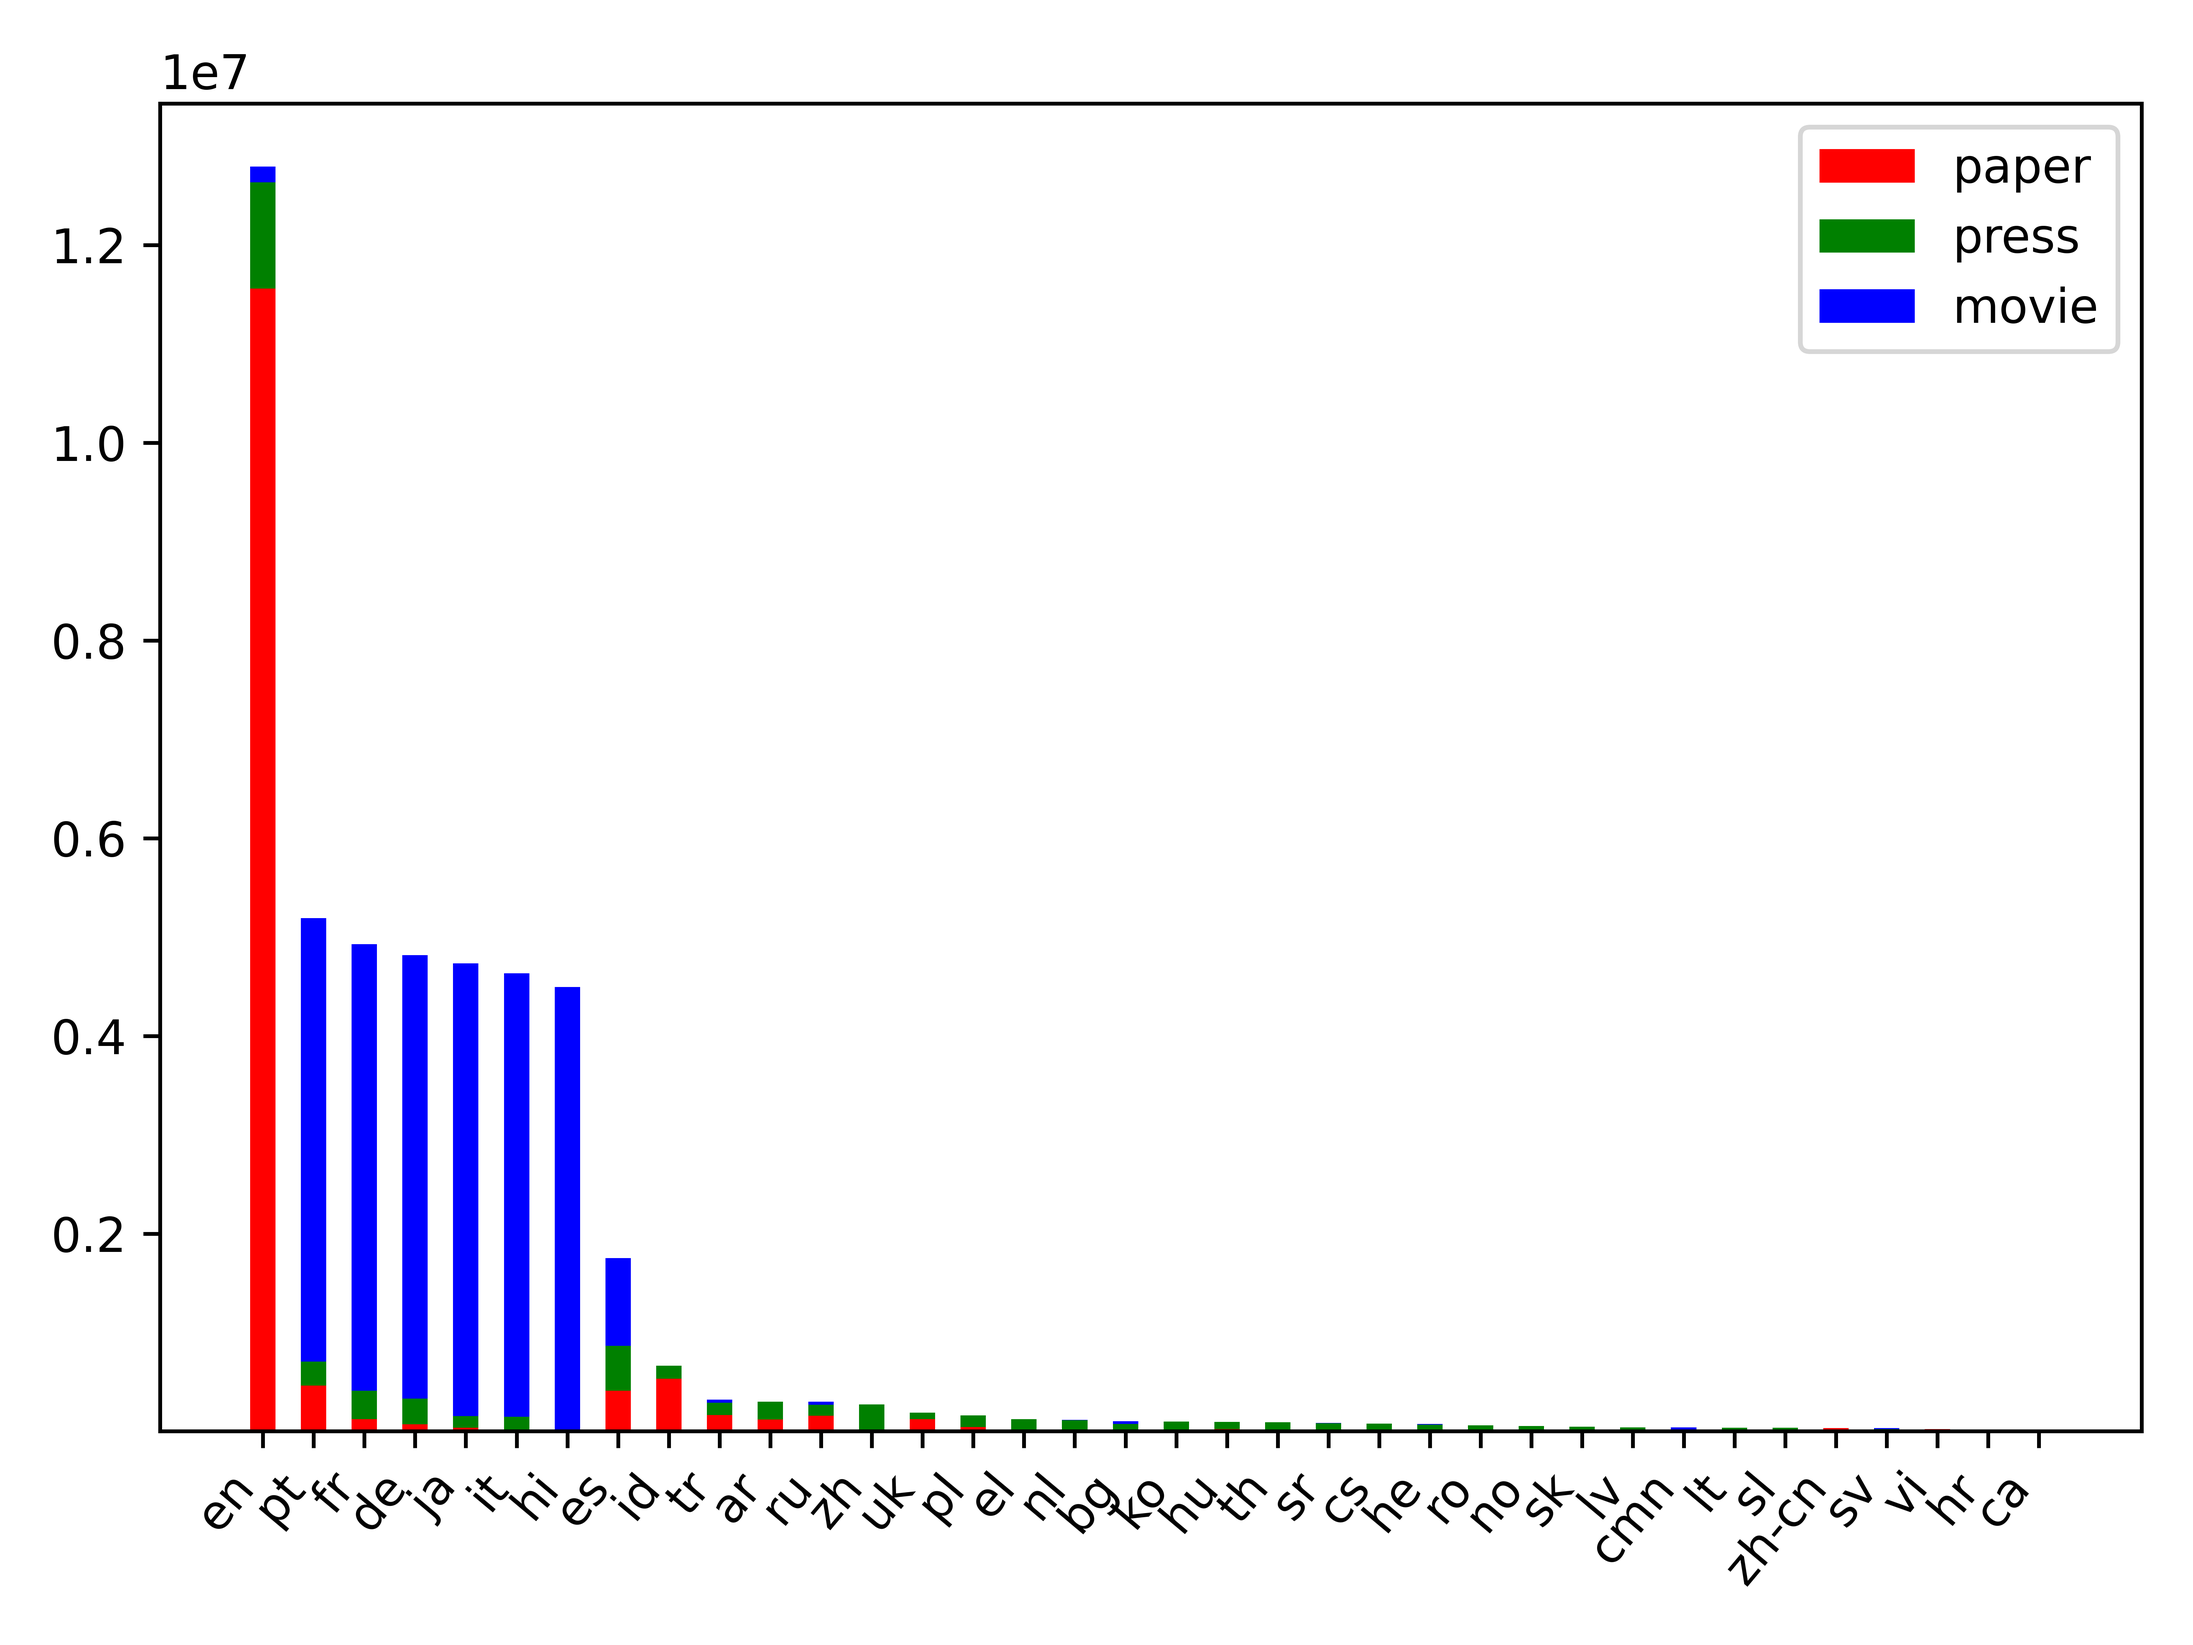
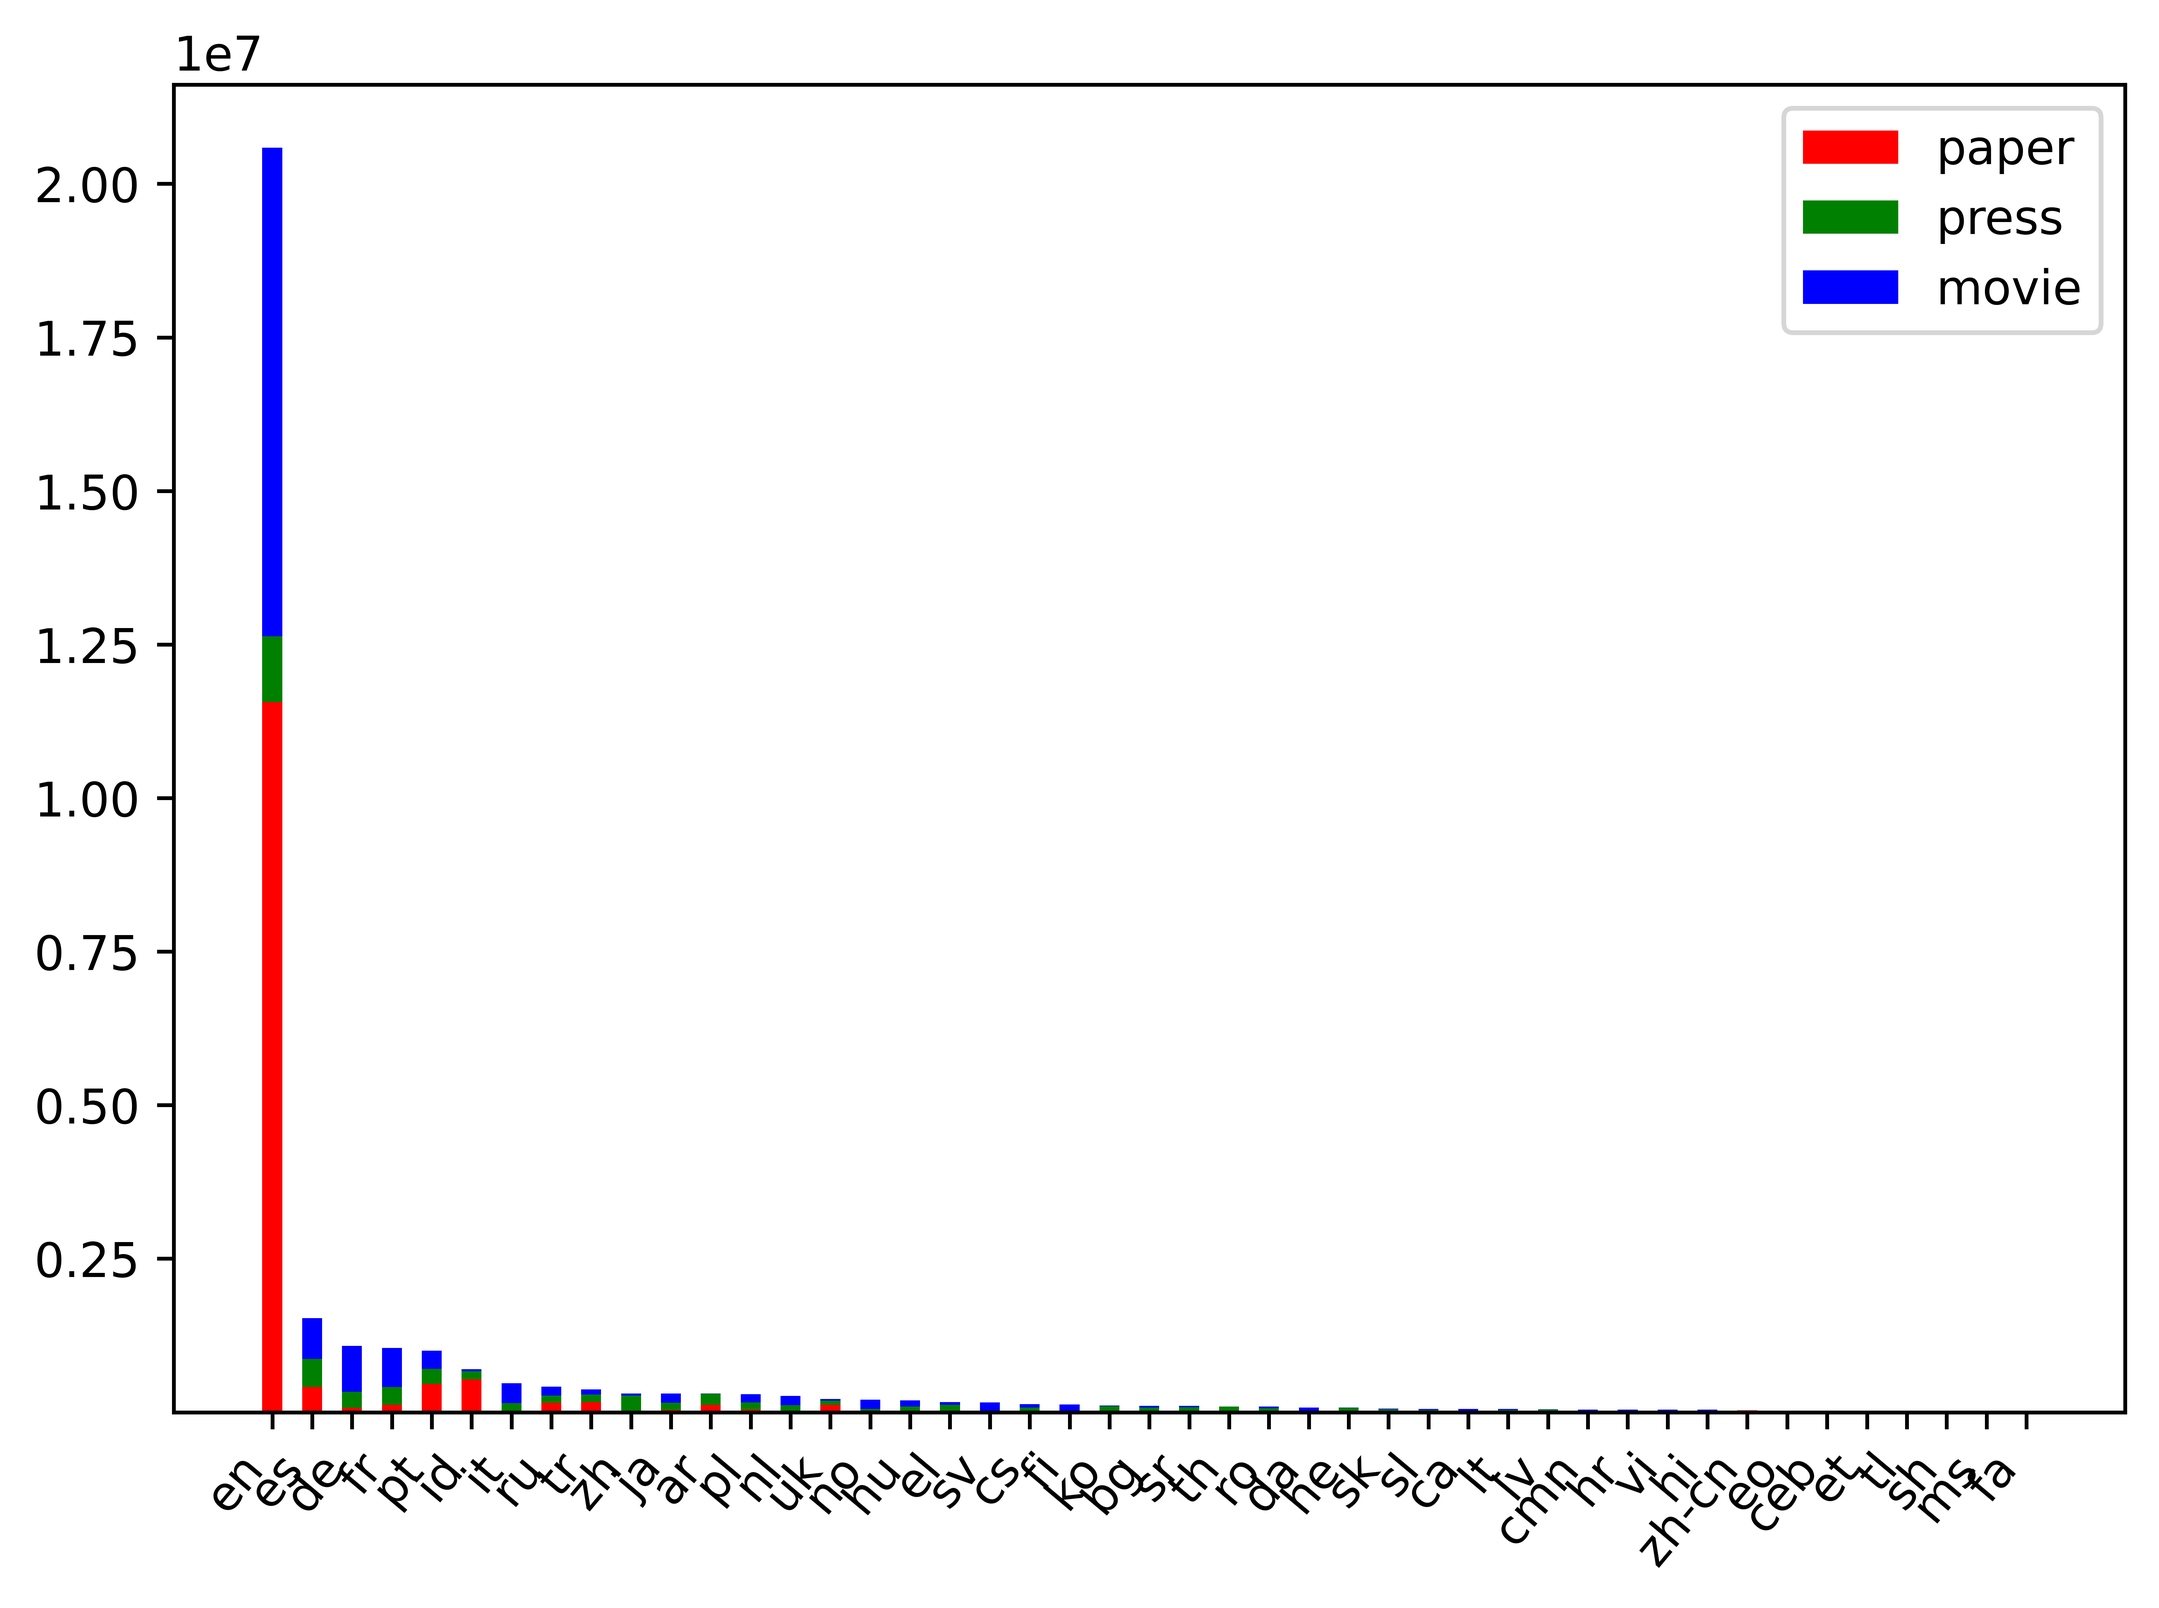
waiting for a more performant PC to run it

Changed region(s): [[0.0, 0.0311, 0.9332, 0.9644], [0.8088, 0.0622, 0.9954, 0.8711]]

diff --git a/BACKUPs/MovieFinder/movieMain.py b/BACKUPs/MovieFinder/movieMain.py
@@ -1,0 +1,119 @@
+import os
+import json
+import glob
+import pandas as pd
+
+import gzip
+import shutil
+import urllib.request  
+
+def createFolder(folder):
+    "create a folder"
+    if not os.path.exists(folder): 
+        os.makedirs(folder) 
+
+
+def getDataset():
+    "get the wanted dataset from url and extract it"
+    urllib.request.urlretrieve("https://datasets.imdbws.com/title.akas.tsv.gz", "data/title.akas.tsv.gz")
+    with gzip.open("data/title.akas.tsv.gz", 'rb') as f_in:
+        with open("data/title.akas.tsv", 'wb') as f_out:
+            shutil.copyfileobj(f_in, f_out)
+
+
+def getDictMovies():
+    "reads the imdb file and extract id, language and title for each movie"
+    "saves titles in X json files, each containing up to 200.000 titles"
+    "takes care of duplicates by looking at titles IDs and exact match"
+
+    data = pd.read_csv("data/title.akas.tsv",sep="\t")
+    dict_movies = {}
+    errors = []
+
+    counter = 0
+    file_counter = 0
+
+    previous_title = []
+    previous_titleId = data["titleId"][0]
+
+    for i,titleId in enumerate(data["titleId"]):
+
+        if titleId != previous_titleId:
+            previous_title = []
+
+        title = data["title"][i]
+
+        if str(title).find("\ntt") != -1:
+            errors.append(str(title))
+
+        else:
+
+            if titleId+str(i) not in dict_movies and title not in previous_title:
+
+                dict_movies[titleId+str(i)] = {"title":title,"language":data["language"][i],"origin":"movie"}
+                previous_title.append(title)
+
+            counter += 1
+
+            if counter == 200000:
+
+                with open(f'data/split/movies_{file_counter}.json', 'w',encoding="utf'8") as f:
+                    json.dump(dict_movies, f, indent=4, ensure_ascii=False)
+                    
+                file_counter += 1
+                counter = 0
+                dict_movies = {}
+
+            previous_titleId = titleId
+        
+    with open("data/errors.tsv","w",encoding="utf-8") as f:
+        f.write("\n".join(errors))
+    
+
+def getLanguagesNumber(dict_movies):
+    "allows us to count the number of languages for one file"
+    languages = set()
+    counter_null = 0
+    for key,value in dict_movies.items():
+        if value["language"] == "\\N":
+            counter_null += 1
+        else:
+            languages.add(value["language"].lower())
+    return languages, counter_null
+
+
+def getMetadata():
+    "check all json files one by one to collect metadatas"
+    total_lang = set()
+    total_null = 0
+    size = 0
+    for path in glob.glob("data/split/*.json"):
+        with open(path,'r',encoding="utf-8") as f:
+            dict_movies = json.load(f)
+        lang, nb_null = getLanguagesNumber(dict_movies)
+        total_lang.update(lang)
+        total_null += nb_null
+        size += len(dict_movies.keys())
+    return len(total_lang), total_null, size
+
+
+if __name__ == "__main__":
+
+    createFolder("data")
+    createFolder("data/split")
+
+    if not os.path.exists("data/title.akas.tsv"):
+        print("downloading the dataset...")
+        getDataset()
+
+    if len(os.listdir("data/split")) == 0:
+        print("getting titles... (this might takes a while !)")
+        getDictMovies()
+        print("titles saved in data/split !")
+
+    print("getting some basic metadata...")
+    nb_lang, nb_null, size = getMetadata()
+    print(f"number of titles : {size}")
+    print(f"number of languages : {nb_lang}")
+    print(f"number of unreferenced language values : {nb_null}")
+    print("done !")

diff --git a/collect/MovieFinder/movieMain.py b/collect/MovieFinder/movieMain.py
@@ -4,6 +4,7 @@ import glob
 import pandas as pd
 from tqdm import tqdm
 from io import StringIO
+from ftlangdetect import detect # pip install fasttext-langdetect
 
 import gzip
 import shutil
@@ -42,6 +43,16 @@ def isEpisode(episodes,title):
     return False
 
 
+def getLanguage(invalid_languages,title,language):
+    "get the most probable language for a given title"
+    try:
+        guess = detect(text=str(title).replace("\n",""), low_memory=False)
+        return guess["lang"]
+    except:
+        invalid_languages.append(language)
+        return "\\N"
+
+
 def getDictMovies(data,file_counter=0):
     "reads the imdb file and extract id, language and title for each movie"
     "saves titles in X json files, each containing up to 200.000 titles"
@@ -54,6 +65,7 @@ def getDictMovies(data,file_counter=0):
     dict_movies = {}
     invalid_list = [headers]
     episode_list = []
+    invalid_languages = []
     bannedID = ""
     counter = 0
 
@@ -72,6 +84,9 @@ def getDictMovies(data,file_counter=0):
 
                 language = data["language"][i]
                 dict_movies[f"{titleId}_{counter}"] = {"title":title,"language":language,"origin":"movie"}
+
+                if language == "\\N":
+                    dict_movies[f"{titleId}_{counter}"]["language"] = getLanguage(invalid_languages,title,language)
 
                 counter += 1
 
@@ -94,6 +109,14 @@ def getDictMovies(data,file_counter=0):
 
     with open("data/episodes.json","w",encoding="utf-8") as f:
         json.dump(episode_list, f, indent=4, ensure_ascii=False)
+
+    if os.path.isfile("data/invalid_languages.json"):
+        with open("data/invalid_languages.json","r",encoding="utf-8") as f:
+            old_invalid_languages = json.load(f)
+        invalid_languages = old_invalid_languages + invalid_languages
+
+    with open("data/invalid_languages.json","w",encoding="utf-8") as f:
+        json.dump(list(set(invalid_languages)), f, indent=4, ensure_ascii=False)
 
     return file_counter+1, "\n".join(invalid_list)
     
@@ -157,3 +180,4 @@ if __name__ == "__main__":
     print(f"number of unreferenced language values : {nb_null}")
     print(f"number of dropped titles corresponding to episodes numbers : {nb_episode}")
     print("done !")
+

diff --git a/filter/src/metadata.py b/filter/src/metadata.py
@@ -75,6 +75,7 @@ def getBasicMetadatas():
 def getBasicMetadatasHistogram(logscale=True):
     "take our dict of metadata as input and create a histogram to visualize it"
 
+    createFolder("logs/images")
     dict_metadata = openJson("logs/dict_metadata.json")
 
     order_lang = []
@@ -188,8 +189,10 @@ def getVizualisation(vectorizer,genres,number,clusters=False,clusteType="Kmeans"
                 # we do the vizualisation
                 ax.scatter(X_reduced[:, 0], X_reduced[:, 1], c=colors, alpha=0.2, s=10)
                 handles = [plt.Line2D([0], [0], marker='o', color='w', label=label, markerfacecolor=color, markersize=10) for color, label in zip(colors_labels,origins_labels)]
-                if clusters == False:
-                    ax.legend(handles=handles, title='Categories')
+                legend_title = "Categories"
+                if clusters == True:
+                    legend_title = "Clusters"
+                ax.legend(handles=handles, title=legend_title)
                 ax.set_title(f'{lang}')
                 ax.grid(True)
 
@@ -204,12 +207,12 @@ def dataVisualisationLoop(genres,number):
     "proceed getDataVizualisation with different parameters"
     
     timeWindowsName = f"{number}_{('_').join(genres)}"
-    runtimePath = "logs/images/getDataVizualisation/runtimes.json"
+    runtimePath = "logs/images/runtimes.json"
 
     if not os.path.isfile(runtimePath):
         writeJson(runtimePath,[])
 
-    ngrams = [(1,1),(2,2),(3,3),(1,2),(2,3)]
+    ngrams = [(1,1),(2,2)]
     analyzers = ["char","word","char_wb"]
 
     stop_words = None

diff --git a/filter/src/clustering.py b/filter/src/clustering.py
@@ -17,22 +17,25 @@ def KMeansClustering(vectorizer,genres,number,n_clusters=10):
     dict_languages = openJson("logs/dict_languages.json")
     sorted_dict_languages = [i[0] for i in sorted(dict_languages.items(), key=lambda x:x[1],reverse=True)]
 
-    for lang in tqdm(sorted_dict_languages[-number:]):
+    for lang in tqdm(sorted_dict_languages[0:number]):
 
         createFolder(f"data/clusters/{lang}")
         removeFolder(f"data/clusters/{lang}/{('_').join(genres)}")
         createFolder(f"data/clusters/{lang}/{('_').join(genres)}")
 
         titles, origins = getTitles(lang,genres)
-        X = getVectors(vectorizer,titles,lang,genres)
-        
-        kmean = KMeans(n_clusters=n_clusters,n_init=10)
-        kmean.fit(X)
 
-        res = {int(cluster):[] for cluster in sorted(kmean.labels_)}
-        for cluster, title in zip(kmean.labels_, titles):
-            res[int(cluster)].append(title)
-        writeJson(f"data/clusters/{lang}/{('_').join(genres)}/Kmeans_{vectorizeName}.json",res)
+        if len(titles) > n_clusters:
+
+            X = getVectors(vectorizer,titles,lang,genres)
+            
+            kmean = KMeans(n_clusters=n_clusters,n_init=10)
+            kmean.fit(X)
+
+            res = {int(cluster):[] for cluster in sorted(kmean.labels_)}
+            for cluster, title in zip(kmean.labels_, titles):
+                res[int(cluster)].append(title)
+            writeJson(f"data/clusters/{lang}/{('_').join(genres)}/Kmeans_{vectorizeName}.json",res)
 
 
 def DBscanClustering(titles,vectorizer):

diff --git a/filter/main.py b/filter/main.py
@@ -8,26 +8,30 @@ if __name__ == "__main__":
     start = time.time()
 
     #languageStep()
-    #clusterAnalyzer()
+    #print("basic metadatas...")
     #getBasicMetadatas()
-    #getDataVizualisation(studiedOrigins=["movie"])
+    #getBasicMetadatasHistogram(logscale=True)
     #getBasicMetadatasHistogram(logscale=False)
     
+    #print("first vizualisation...")
     #vectorizer = TfidfVectorizer(ngram_range=(3, 3), stop_words=None, lowercase=True, analyzer="char")
-    #getDataVizualisation(vectorizer,studiedOrigins=["press"],number = 8)
+    #getVizualisation(vectorizer,["paper"],8) #["movie","paper","press"]
     #dataVisualisationLoop(studiedOrigins=["movie","paper","press"],number=8)
 
-    genres = ["press","movie","paper"]
+    a,b = getTitles("en",["movie","paper","press"])
+    print(len(a))
+    1/0
+
+    genres = ["movie"]
     number = 8
 
-    dataVisualisationLoop(genres,number)
+    #dataVisualisationLoop(genres,number)
 
-    vectorizer = TfidfVectorizer(ngram_range=(1,1), stop_words=None, lowercase=True, analyzer="char")
+    vectorizer = TfidfVectorizer(ngram_range=(3,3), stop_words=None, lowercase=True, analyzer="char")
 
-    getVizualisation(vectorizer,genres,number)
+    #getVizualisation(vectorizer,genres,number)
     KMeansClustering(vectorizer,genres,number)
     getVizualisation(vectorizer,genres,number,clusters=True)
-
     getGenresPerClusters(vectorizer,genres,number,"Kmeans")
 
     end = time.time()

diff --git a/filter/src/navigation.py b/filter/src/navigation.py
@@ -104,7 +104,7 @@ def getVectors(vectorizer,titles,language,genres):
 
 
 def getClustersTags(vectorizer,language,genres,titles,clusteType):
-  "" 
+  "for each title, retrieve in wich cluster it was found" 
   vectorizeName = "".join(x for x in str(vectorizer).replace(" ","_") if x.isalnum() or x == "_")
   dict_clusters = openJson(f"data/clusters/{language}/{('_').join(genres)}/{clusteType}_{vectorizeName}.json")  
   clusterTags = []

diff --git a/collect/README.md b/collect/README.md
@@ -18,7 +18,7 @@ This is a very simple script that allows us to download, read and extract titles
 python movieMain.py
 ```
 
-The resulting dataset will be stored in the newly created **MovieFinder/data/split** folder. This script collects around 10 million movie titles.
+The resulting dataset will be stored in the newly created **MovieFinder/data/split** folder. This script collects around 12 million movie titles. Note that we remove a large number of irrevelant titles (like episodes numbers with no other informations) and try to determine the language of titles without referenced language.
 
 ## PaperFinder
 
